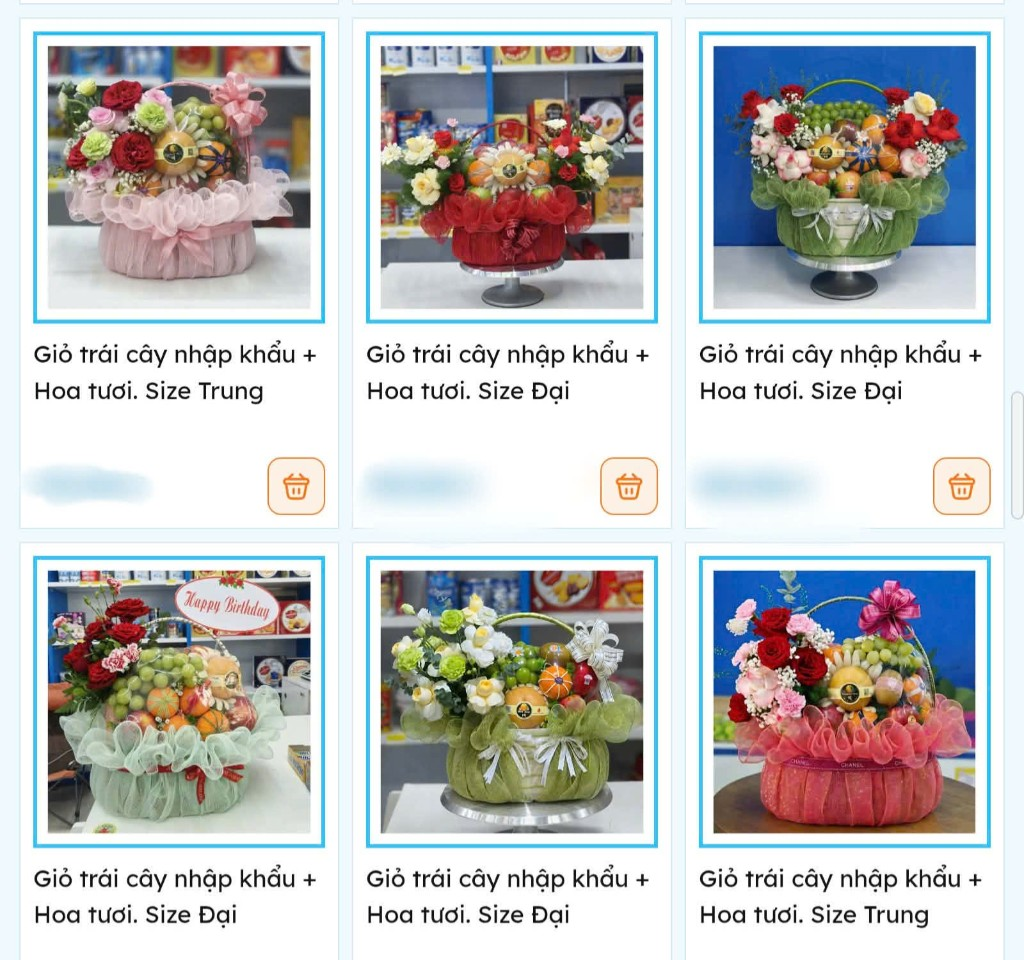
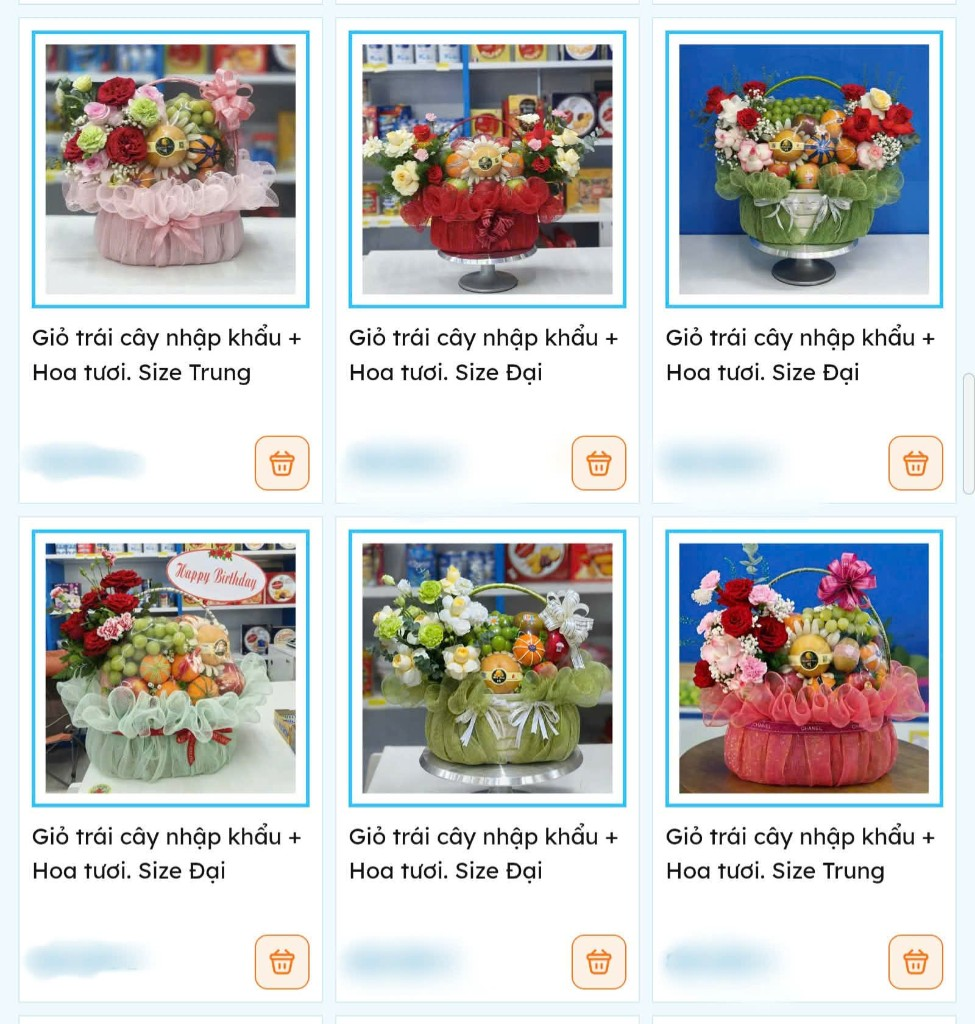
Update

diff --git a/resources/views/UI-FRONTEND/common/og-meta.blade.php b/resources/views/UI-FRONTEND/common/og-meta.blade.php
@@ -17,8 +17,8 @@
 <meta property="og:image" content="{{ $seo['image'] }}">
 <meta property="og:image:secure_url" content="{{ $seo['image'] }}">
 <meta property="og:image:type" content="image/png">
-<meta property="og:image:width" content="{{ $seoImageWidth ?? 1024 }}">
-<meta property="og:image:height" content="{{ $seoImageHeight ?? 960 }}">
+<meta property="og:image:width" content="{{ $seoImageWidth ?? 975 }}">
+<meta property="og:image:height" content="{{ $seoImageHeight ?? 1024 }}">
 <meta property="og:image:alt" content="{{ $seo['siteName'] }}">
 <meta property="og:url" content="{{ $seo['url'] }}">
 <meta property="og:site_name" content="{{ $seo['siteName'] }}">

diff --git a/resources/views/UI-FRONTEND/index.blade.php b/resources/views/UI-FRONTEND/index.blade.php
@@ -19,8 +19,8 @@
       $seoType = 'website';
       $seoUrl = url('/');
       $seoImage = storefrontDefaultShareImageUrl();
-      $seoImageWidth = 1024;
-      $seoImageHeight = 960;
+      $seoImageWidth = 975;
+      $seoImageHeight = 1024;
     @endphp
     @include('UI-FRONTEND.common.og-meta')
 

diff --git a/resources/views/UI-FRONTEND/san-pham/tat-ca.blade.php b/resources/views/UI-FRONTEND/san-pham/tat-ca.blade.php
@@ -2,8 +2,8 @@
   $seoTitle = 'Tất cả sản phẩm — Win Win';
   $seoDescription = 'Danh sách sản phẩm trái cây, giỏ quà và quà tặng tại Win Win Trái Cây Nhập Khẩu.';
   $seoImage = storefrontDefaultShareImageUrl();
-  $seoImageWidth = 1024;
-  $seoImageHeight = 960;
+  $seoImageWidth = 975;
+  $seoImageHeight = 1024;
 @endphp
 @include('UI-FRONTEND.san-pham.partials.product-detail-head')
 

diff --git a/resources/views/UI-FRONTEND/tim-kiem/ket-qua.blade.php b/resources/views/UI-FRONTEND/tim-kiem/ket-qua.blade.php
@@ -6,8 +6,8 @@
       ? ('Kết quả tìm kiếm “' . $query . '” tại Win Win Trái Cây Nhập Khẩu.')
       : 'Tìm kiếm sản phẩm tại Win Win Trái Cây Nhập Khẩu.');
   $seoImage = storefrontDefaultShareImageUrl();
-  $seoImageWidth = 1024;
-  $seoImageHeight = 960;
+  $seoImageWidth = 975;
+  $seoImageHeight = 1024;
 @endphp
 @include('UI-FRONTEND.san-pham.partials.product-detail-head')
 

diff --git a/app/Helper/Helpers.php b/app/Helper/Helpers.php
@@ -755,7 +755,7 @@ use Illuminate\Support\Facades\DB;
         function storefrontDefaultShareImageUrl(): string
         {
             $url = storefrontAbsoluteUrl(asset('UI-FRONTEND/images/og-share-listing.png'));
-            $version = '20260718b';
+            $version = '20260718c';
 
             return $url . (str_contains($url, '?') ? '&' : '?') . 'v=' . $version;
         }